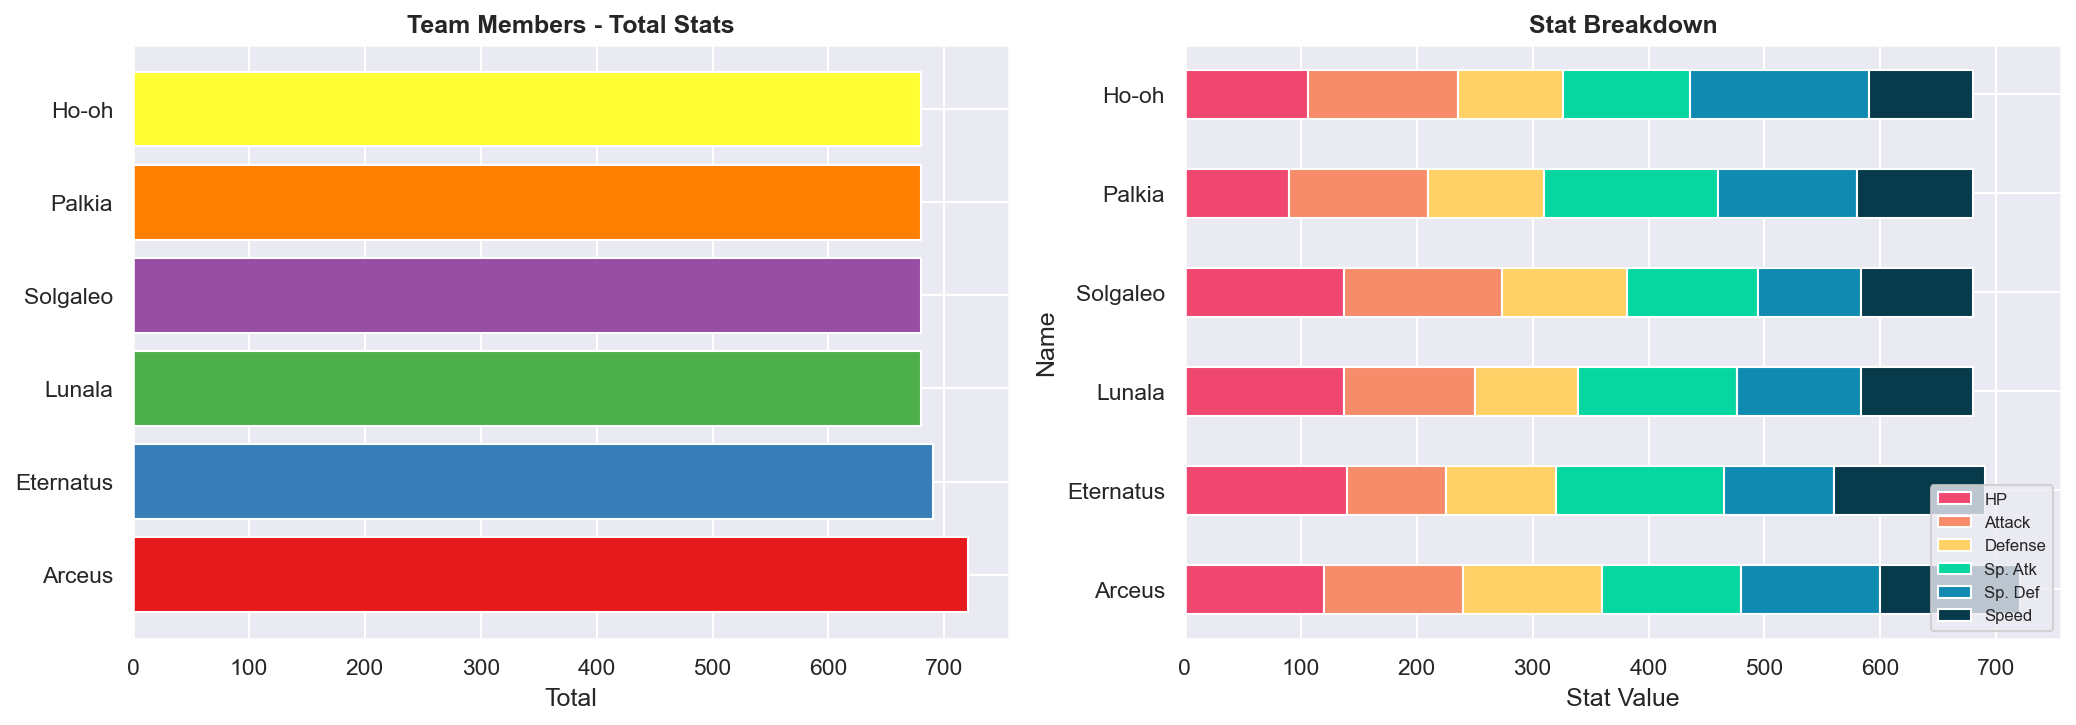
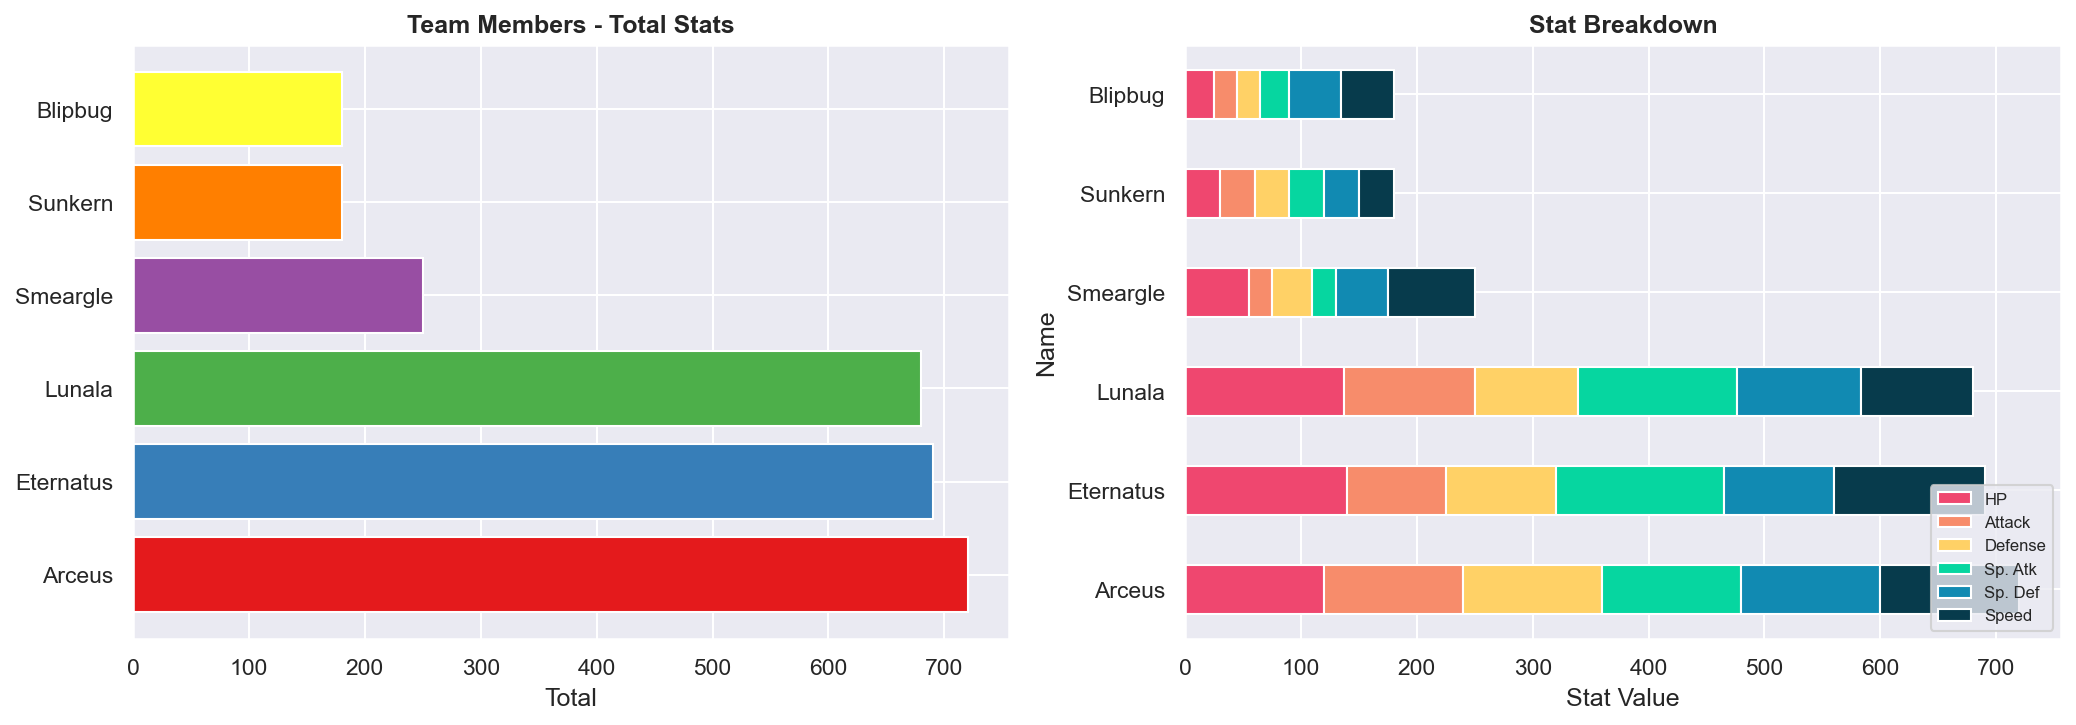
final final changs

diff --git a/app.py b/app.py
@@ -163,8 +163,9 @@ def run_clustering(df, k=5):
 
 
 @st.cache_data
-def build_team(df, max_total=4200, max_same_type=2, team_size=6):
+def build_team(df, max_total=2700, max_same_type=2, team_size=6):
     stat_cols = ["HP", "Attack", "Defense", "Sp. Atk", "Sp. Def", "Speed"]
+    min_stat = df["Total"].min()
     cands = df.sort_values("Total", ascending=False).copy()
     team, type_count, running = [], {}, 0
     for _, row in cands.iterrows():
@@ -172,8 +173,12 @@ def build_team(df, max_total=4200, max_same_type=2, team_size=6):
             break
         t1 = row["Type1"]
         t2 = row["Type2"] if pd.notna(row.get("Type2")) else None
-        if running + row["Total"] > max_total:
+        
+        # Reserve minimum budget required for remaining slots
+        slots_left = team_size - len(team)
+        if running + row["Total"] + (slots_left - 1) * min_stat > max_total:
             continue
+            
         if type_count.get(t1, 0) >= max_same_type:
             continue
         if t2 and type_count.get(t2, 0) >= max_same_type:
@@ -224,7 +229,7 @@ with st.sidebar:
 
     st.markdown("---")
     st.markdown("## Team Builder")
-    tb_max_total = st.slider("Max Combined Total", 1800, 5000, 4200, step=50)
+    tb_max_total = st.slider("Max Combined Total", 1800, 3000, 2700, step=50)
     tb_max_type = st.slider("Max Same-Type", 1, 3, 2)
 
 # ── Filter base dataframe ─────────────────────────────────────────────────────
